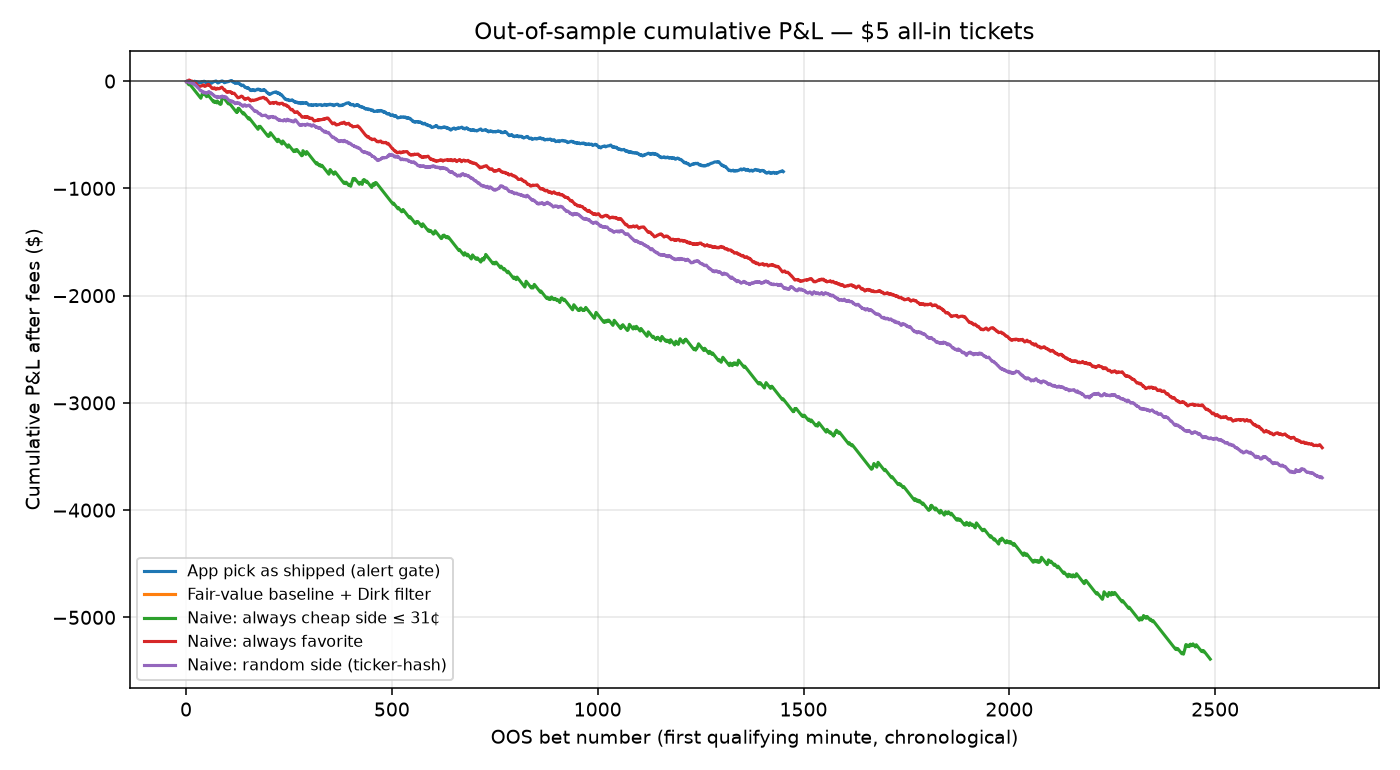
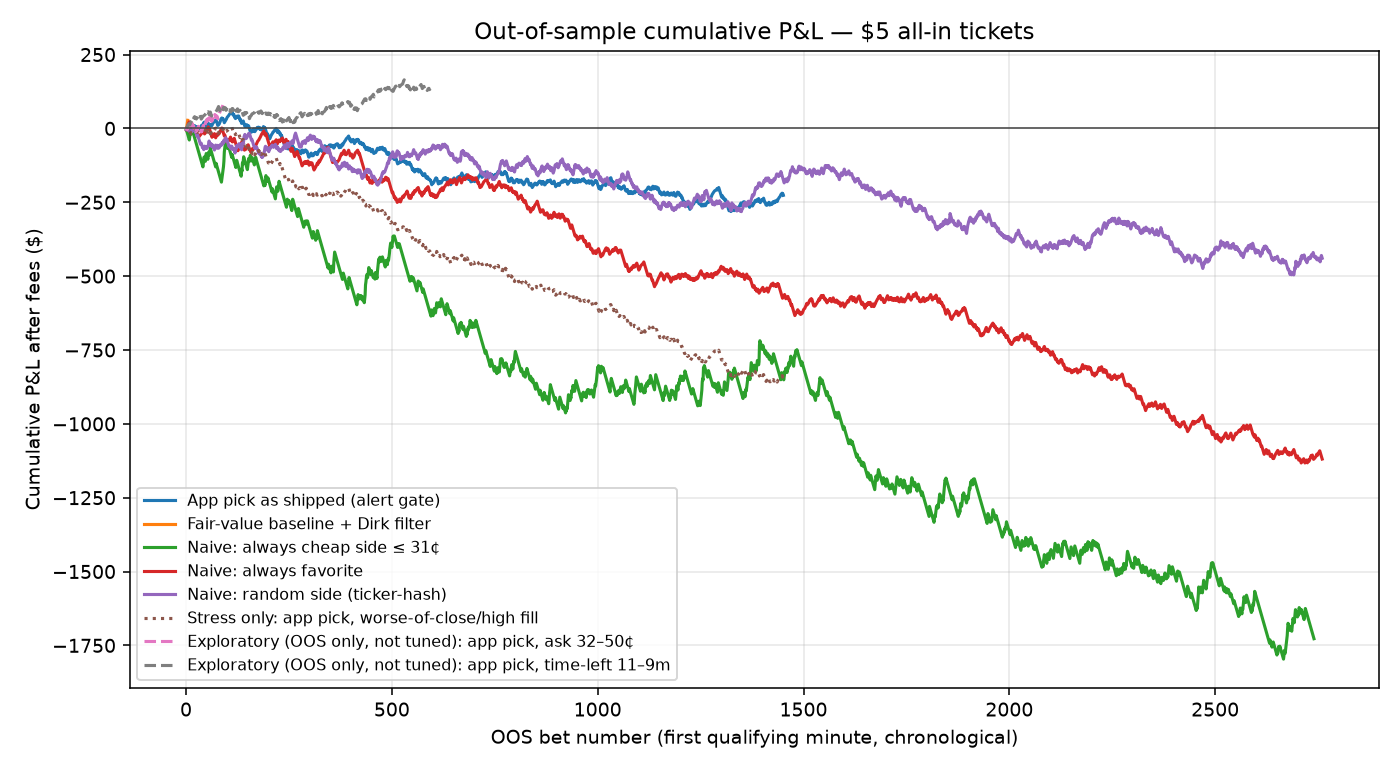
Regenerate v2 backtest report after close-ask rerun
Sanity and settlement gates pass. Primary OOS tables use candle-close
fills. Exploratory 32-50c / 11-9m rows are marked not-tuned.

diff --git a/tools/backtest/report.py b/tools/backtest/report.py
@@ -489,7 +489,9 @@ def write_report(result: dict, dest: Path, charts: tuple[Path, Path], meta: dict
     parts.append("")
     parts.append(
         "These two rows were added after v1 review. They are **not** in the walk-forward grid "
-        "and must not be read as a discovered edge."
+        "and must not be read as a discovered edge. "
+        "`app_32_50` waits for a later alert in the 32–50¢ band; that is why it has more bets "
+        "than the first-alert 32–50¢ slice in the app-pick breakdown."
     )
     parts.append("")
     parts.append("| Strategy | N | Wins | Win% | Avg ask | P&L | $/bet | ROI | Max DD | Bootstrap 95% CI $/bet (excludes 0?) |")
@@ -515,7 +517,7 @@ def write_report(result: dict, dest: Path, charts: tuple[Path, Path], meta: dict
     parts.append("")
     parts.append(
         "Dirk's cheap-side filter produced **0 OOS bets** on the shipped hero side "
-        "(that side is usually the 70–80¢ favorite). Tables below are the unfiltered "
+        "(that side is usually the favorite, ~66¢ close-ask). Tables below are the unfiltered "
         "app pick — the only app strategy with enough OOS trades to slice."
     )
     parts.append("")
@@ -625,7 +627,10 @@ def write_report(result: dict, dest: Path, charts: tuple[Path, Path], meta: dict
 
 def run_report(result: dict, repo: Path, artifact: Path, meta: dict | None) -> None:
     charts = write_charts(result, repo / "docs" / "backtest", artifact)
-    write_report(result, repo / "docs" / "backtest-2026-09-25.md", charts, meta)
+    dest = repo / "docs" / "backtest-2026-09-25.md"
+    write_report(result, dest, charts, meta)
+    artifact.mkdir(parents=True, exist_ok=True)
+    (artifact / "backtest-2026-09-25.md").write_text(dest.read_text())
 
 
 if __name__ == "__main__":

diff --git a/docs/backtest-2026-09-25.md b/docs/backtest-2026-09-25.md
@@ -2,6 +2,14 @@
 
 Honest historical replay of the **as-shipped 0.3.10 decision path** on settled `KXBTC15M` / `KXETH15M` / `KXSOL15M` windows. No look-ahead. One bet per market (first qualifying minute). $5 max all-in including Kalshi taker fees. Dirk's rule: only take a bet if profit-if-win ≥ $10 (asks around 31¢ or less).
 
+## What changed from v1 and why
+
+v1 P&L tables failed basic sanity. Random-side average ask was **74.6¢** (a coin-flip side at a 15m binary should average ~50–53¢). Always-favorite won 57% at a 79¢ ask and cheap-side won 15% at 25¢ — that contradicts the same report's market-mid calibration (Brier 0.159, reliability near the diagonal).
+
+**Cause:** the primary fill was `max(close, high)` on the YES ask and `max(1 − yes_bid.close, 1 − yes_bid.low)` on NO. A typical candle has `yes_ask.close = 0.47` and `yes_ask.high = 0.75`; `yes_bid.low` is often `0.000`. That rule overpays ~25¢ per contract and makes favorites look too expensive and longshots look too cheap relative to their win rates.
+
+**v2 fill:** primary taker fill is the ask at the decision minute's candle **close**: YES = `yes_ask.close`, NO = `1 − yes_bid.close` ([Kalshi candlesticks](https://docs.kalshi.com/api-reference/market/get-market-candlesticks)). `end_period_ts` is the inclusive period end, so minute *t* uses the candle ending at *t*, not *t+1*. Worse-of-close/high is kept only as a **stress-test row**. Random-side now requires **both** close asks to be usable so skip-bias cannot inflate the average. A sanity gate and a 20-market settlement audit must pass before any edge claim. Same cached 28-day pull; no re-fetch.
+
 ## Data span
 
 | | |
@@ -48,23 +56,128 @@ We also run the **fair-value baseline alone** (digital Φ(d2) / spot vs strike) 
 
 ## Fill and fee
 
-- Fill = conservative taker: **worse of candle close and high** on the side we buy. DOWN ask = `1 − yes_bid`; high DOWN ask = `1 − yes_bid.low`.
+- **Primary fill** = candle **close** ask at the decision minute. YES = `yes_ask.close`; NO / DOWN = `1 − yes_bid.close`.
+- **Stress-test fill** (one row only) = worse of close and high: YES `max(yes_ask.close, yes_ask.high)`; NO `max(1 − yes_bid.close, 1 − yes_bid.low)`.
 - Unusable 0.000 / 1.000 prints are dropped (`KalshiPrice` 0.1¢–99.9¢).
 - Fee: `ceil_cent(C·P + ceil_6dp(0.07·C·P·(1−P)))` for a non-direct member. `C` is the max integer with that debit ≤ $5.
 - P&L = `C × $1 − cost` if the side wins, else `−cost`.
 - First qualifying minute only. **“Best minute” is not allowed.**
 
+## Sanity (must pass before any conclusion)
+
+Overall: **PASS**. Minutes with both close asks usable: 103481.
+
+| Check | Value | Expect | Result |
+|---|---:|---|---|
+| yes_plus_no_median | 1.0100 | 0.99–1.12 (99–112¢) | PASS |
+| yes_plus_no_p95 | 1.0200 | ≤ 1.20 | PASS |
+| random_side_avg_ask_all_minutes | 0.5072 | 0.50–0.53 | PASS |
+| random_side_strategy_avg_ask | 0.5064 | 0.50–0.53 | PASS |
+| favorite_wr_tracks_price | 0.0117 | mean |win% − avg ask| ≤ 12pp on n≥30 buckets | PASS |
+| cheap_wr_tracks_price | 0.0137 | mean |win% − avg ask| ≤ 12pp on n≥30 buckets | PASS |
+| favorite_all_minutes_wr_tracks_price | 0.0047 | mean |win% − avg ask| ≤ 12pp on n≥30 buckets | PASS |
+| cheap_all_minutes_wr_tracks_price | 0.0091 | mean |win% − avg ask| ≤ 12pp on n≥30 buckets | PASS |
+
+| | Median | p95 | Mean |
+|---|---:|---:|---:|
+| YES ask + NO ask | 101.0¢ | 102.0¢ | 101.0¢ |
+| Random-side ask (all those minutes) | 50.7¢ | — | — |
+
+A calibrated book has YES ask + NO ask ≈ 100–105¢ (spread). A random side must then average ~50–53¢. Favorite / cheap-side win rate vs 10¢ price buckets should sit near the diagonal.
+
+#### Favorite (first-bet) win rate vs price paid
+
+| Bucket | N | Win% | Avg ask | Win% − ask |
+|---|---:|---:|---:|---:|
+| 50-60c | 4127 | 54.1% | 54.8¢ | -0.7pp |
+| 60-70c | 2867 | 62.2% | 63.8¢ | -1.6pp |
+| 70-80c | 865 | 75.3% | 73.4¢ | +1.9pp |
+| 80-90c | 103 | 80.6% | 82.5¢ | -1.9pp |
+| 90-100c | 7 | 71.4% | 90.0¢ | -18.6pp |
+
+#### Cheap side ≤31¢ (first-bet) win rate vs price paid
+
+| Bucket | N | Win% | Avg ask | Win% − ask |
+|---|---:|---:|---:|---:|
+| 0-10c | 55 | 12.7% | 7.4¢ | +5.4pp |
+| 10-20c | 1015 | 16.0% | 16.8¢ | -0.9pp |
+| 20-30c | 4994 | 24.0% | 25.7¢ | -1.7pp |
+| 30-40c | 1836 | 30.0% | 30.5¢ | -0.6pp |
+
+#### Favorite (every decision minute, both asks)
+
+| Bucket | N | Win% | Avg ask | Win% − ask |
+|---|---:|---:|---:|---:|
+| 50-60c | 20956 | 54.1% | 55.0¢ | -0.9pp |
+| 60-70c | 20928 | 63.9% | 64.4¢ | -0.5pp |
+| 70-80c | 17933 | 74.8% | 74.4¢ | +0.4pp |
+| 80-90c | 16545 | 84.7% | 84.5¢ | +0.2pp |
+| 90-100c | 27119 | 96.1% | 95.8¢ | +0.3pp |
+
+#### Cheaper close ask (every decision minute)
+
+| Bucket | N | Win% | Avg ask | Win% − ask |
+|---|---:|---:|---:|---:|
+| 0-10c | 25240 | 3.4% | 4.1¢ | -0.7pp |
+| 10-20c | 15525 | 14.1% | 15.3¢ | -1.1pp |
+| 20-30c | 16636 | 23.0% | 24.8¢ | -1.9pp |
+| 30-40c | 20246 | 34.2% | 34.6¢ | -0.5pp |
+| 40-50c | 23069 | 43.9% | 44.6¢ | -0.8pp |
+| 50-60c | 2765 | 50.2% | 50.1¢ | +0.1pp |
+
+## Settlement mapping (20 random markets)
+
+Sample agree 20/20 (missing spot 0). All markets with a Coinbase print: 7612/7969 (95.5%). **PASS** — `result=yes` means UP (Coinbase close > strike). Coinbase 1m close is a proxy for Kalshi's settlement index; a few mismatches are expected. result=yes must mean UP (close > strike).
+
+| Ticker | Strike | Result | Coinbase close | close_time | spot>strike | yes=UP |
+|---|---:|---|---:|---|---|---|
+| KXETH15M-26SEP202345-45 | 2664.65 | no | 2664.38 | 2026-09-21T03:45:00+00:00 | False | True |
+| KXSOL15M-26SEP150415-15 | 100.4343 | no | 100.29 | 2026-09-15T08:15:00+00:00 | False | True |
+| KXSOL15M-26SEP011200-00 | 102.1468 | no | 102.00 | 2026-09-01T16:00:00+00:00 | False | True |
+| KXSOL15M-26SEP081630-30 | 103.6113 | no | 103.49 | 2026-09-08T20:30:00+00:00 | False | True |
+| KXSOL15M-26SEP081645-45 | 103.4638 | no | 103.29 | 2026-09-08T20:45:00+00:00 | False | True |
+| KXBTC15M-26SEP240630-30 | 83214.38 | yes | 83234.25 | 2026-09-24T10:30:00+00:00 | True | True |
+| KXBTC15M-26SEP070130-30 | 79758.87 | yes | 79846.07 | 2026-09-07T05:30:00+00:00 | True | True |
+| KXSOL15M-26SEP010330-30 | 103.326 | no | 103.30 | 2026-09-01T07:30:00+00:00 | False | True |
+| KXSOL15M-26SEP060645-45 | 106.653 | no | 106.62 | 2026-09-06T10:45:00+00:00 | False | True |
+| KXBTC15M-26AUG300545-45 | 78024.02 | yes | 78030.34 | 2026-08-30T09:45:00+00:00 | True | True |
+| KXETH15M-26AUG291430-30 | 2448.45 | no | 2447.05 | 2026-08-29T18:30:00+00:00 | False | True |
+| KXETH15M-26SEP121600-00 | 2515.0 | yes | 2518.92 | 2026-09-12T20:00:00+00:00 | True | True |
+| KXBTC15M-26SEP212100-00 | 86306.04 | no | 85876.06 | 2026-09-22T01:00:00+00:00 | False | True |
+| KXSOL15M-26SEP071045-45 | 104.3328 | no | 104.20 | 2026-09-07T14:45:00+00:00 | False | True |
+| KXSOL15M-26AUG300630-30 | 104.6052 | yes | 104.82 | 2026-08-30T10:30:00+00:00 | True | True |
+| KXSOL15M-26SEP160300-00 | 96.9667 | yes | 97.30 | 2026-09-16T07:00:00+00:00 | True | True |
+| KXBTC15M-26SEP031215-15 | 81364.39 | no | 80955.90 | 2026-09-03T16:15:00+00:00 | False | True |
+| KXBTC15M-26SEP221245-45 | 86114.19 | yes | 86229.59 | 2026-09-22T16:45:00+00:00 | True | True |
+| KXBTC15M-26AUG300330-30 | 78260.62 | no | 78220.62 | 2026-08-30T07:30:00+00:00 | False | True |
+| KXETH15M-26SEP041915-15 | 2451.64 | no | 2450.92 | 2026-09-04T23:15:00+00:00 | False | True |
+
 ## Out-of-sample results (what counts)
 
 | Strategy | N | Wins | Win% | Avg ask | P&L | $/bet | ROI | Max DD | Bootstrap 95% CI $/bet (excludes 0?) |
 |---|---:|---:|---:|---:|---:|---:|---:|---:|---|
-| App pick as shipped (alert gate) | 1451 | 949 | 65.4% | 74.9¢ | $-843.72 | $-0.581 | -12.4% | $-865.18 | [-0.745, -0.417] yes (below 0) |
+| App pick as shipped (alert gate) | 1451 | 949 | 65.4% | 65.8¢ | $-226.50 | $-0.156 | -3.3% | $-340.92 | [-0.332, +0.021] no |
 | App pick + Dirk filter (ask ≲ 31¢, profit ≥ $10) | 0 | 0 | — | — | $0.00 | — | — | $0.00 | — |
-| Fair-value baseline + Dirk filter | 1 | 1 | 100.0% | 28.0¢ | $+12.00 | $+12.000 | 240.0% | $0.00 | [+12.000, +12.000] yes (above 0) |
-| Naive: always cheap side ≤ 31¢ | 2488 | 382 | 15.4% | 25.3¢ | $-5389.25 | $-2.166 | -44.4% | $-5389.25 | [-2.422, -1.908] yes (below 0) |
-| Naive: always favorite | 2760 | 1574 | 57.0% | 79.0¢ | $-3418.17 | $-1.238 | -25.7% | $-3428.39 | [-1.364, -1.115] yes (below 0) |
-| Naive: random side (ticker-hash) | 2760 | 1388 | 50.3% | 74.6¢ | $-3698.37 | $-1.340 | -27.7% | $-3698.37 | [-1.489, -1.195] yes (below 0) |
+| Fair-value baseline + Dirk filter | 4 | 3 | 75.0% | 29.3¢ | $+27.39 | $+6.848 | 139.7% | $-5.00 | [-1.183, +11.530] no |
+| Naive: always cheap side ≤ 31¢ | 2740 | 651 | 23.8% | 25.5¢ | $-1727.42 | $-0.630 | -12.9% | $-1797.82 | [-0.919, -0.336] yes (below 0) |
+| Naive: always favorite | 2760 | 1574 | 57.0% | 60.5¢ | $-1119.21 | $-0.406 | -8.7% | $-1154.77 | [-0.546, -0.262] yes (below 0) |
+| Naive: random side (ticker-hash) | 2760 | 1388 | 50.3% | 50.6¢ | $-439.31 | $-0.159 | -3.4% | $-499.74 | [-0.340, +0.021] no |
 | IS-tuned rule (reported OOS only) | 0 | 0 | — | — | $0.00 | — | — | $0.00 | — |
+
+### Stress-test fill (worse of close/high) — not the primary
+
+| Strategy | N | Wins | Win% | Avg ask | P&L | $/bet | ROI | Max DD | Bootstrap 95% CI $/bet (excludes 0?) |
+|---|---:|---:|---:|---:|---:|---:|---:|---:|---|
+| Stress only: app pick, worse-of-close/high fill | 1451 | 949 | 65.4% | 74.9¢ | $-843.72 | $-0.581 | -12.4% | $-865.18 | [-0.745, -0.417] yes (below 0) |
+
+### Exploratory slices (out of sample only, **not tuned**)
+
+These two rows were added after v1 review. They are **not** in the walk-forward grid and must not be read as a discovered edge. `app_32_50` waits for a later alert in the 32–50¢ band; that is why it has more bets than the first-alert 32–50¢ slice in the app-pick breakdown.
+
+| Strategy | N | Wins | Win% | Avg ask | P&L | $/bet | ROI | Max DD | Bootstrap 95% CI $/bet (excludes 0?) |
+|---|---:|---:|---:|---:|---:|---:|---:|---:|---|
+| Exploratory (OOS only, not tuned): app pick, ask 32–50¢ | 92 | 56 | 60.9% | 48.8¢ | $+89.46 | $+0.972 | 20.8% | $-29.64 | [+0.025, +1.890] yes (above 0) |
+| Exploratory (OOS only, not tuned): app pick, time-left 11–9m | 593 | 434 | 73.2% | 68.6¢ | $+134.18 | $+0.226 | 4.9% | $-54.77 | [-0.025, +0.475] no |
 
 In-sample tables are in the appendix — they were used only to tune the optional rule, never to pick the conclusion.
 
@@ -82,41 +195,41 @@ OOS application of that exact rule is the `IS-tuned rule` row above.
 
 ## Breakdowns (OOS, app pick as shipped)
 
-Dirk's cheap-side filter produced **0 OOS bets** on the shipped hero side (that side is usually the 70–80¢ favorite). Tables below are the unfiltered app pick — the only app strategy with enough OOS trades to slice.
+Dirk's cheap-side filter produced **0 OOS bets** on the shipped hero side (that side is usually the favorite, ~66¢ close-ask). Tables below are the unfiltered app pick — the only app strategy with enough OOS trades to slice.
 
 #### By coin
 
 | Bucket | N | Win% | Avg ask | P&L | $/bet | ROI | CI95 $/bet |
 |---|---:|---:|---:|---:|---:|---:|---|
-| BTC | 706 | 63.0% | 73.6¢ | $-440.05 | $-0.623 | -13.2% | [-0.868, -0.379] |
-| ETH | 446 | 64.8% | 74.8¢ | $-282.82 | $-0.634 | -13.5% | [-0.918, -0.347] |
-| SOL | 299 | 71.9% | 78.3¢ | $-120.85 | $-0.404 | -8.6% | [-0.720, -0.088] |
+| BTC | 706 | 63.0% | 63.5¢ | $-124.95 | $-0.177 | -3.8% | [-0.439, +0.084] |
+| ETH | 446 | 64.8% | 65.9¢ | $-90.57 | $-0.203 | -4.4% | [-0.516, +0.111] |
+| SOL | 299 | 71.9% | 71.2¢ | $-10.98 | $-0.037 | -0.8% | [-0.393, +0.315] |
 
 #### By time-left
 
 | Bucket | N | Win% | Avg ask | P&L | $/bet | ROI | CI95 $/bet |
 |---|---:|---:|---:|---:|---:|---:|---|
-| 11-9m | 187 | 69.0% | 70.9¢ | $-33.36 | $-0.178 | -3.9% | [-0.614, +0.261] |
-| 14-12m | 995 | 61.7% | 73.6¢ | $-705.32 | $-0.709 | -15.0% | [-0.917, -0.505] |
-| 2-1m | 39 | 94.9% | 94.4¢ | $+3.55 | $+0.091 | 1.9% | [-0.378, +0.516] |
-| 5-3m | 106 | 77.4% | 86.4¢ | $-51.97 | $-0.490 | -10.4% | [-0.957, -0.054] |
-| 8-6m | 124 | 70.2% | 75.8¢ | $-56.62 | $-0.457 | -9.8% | [-0.984, +0.037] |
+| 11-9m | 187 | 69.0% | 65.2¢ | $+28.42 | $+0.152 | 3.3% | [-0.328, +0.631] |
+| 14-12m | 995 | 61.7% | 62.7¢ | $-206.56 | $-0.208 | -4.5% | [-0.430, +0.018] |
+| 2-1m | 39 | 94.9% | 92.9¢ | $+7.86 | $+0.202 | 4.2% | [-0.302, +0.681] |
+| 5-3m | 106 | 77.4% | 81.1¢ | $-34.17 | $-0.322 | -6.8% | [-0.826, +0.164] |
+| 8-6m | 124 | 70.2% | 70.5¢ | $-22.05 | $-0.178 | -3.8% | [-0.744, +0.367] |
 
 #### By fill ask
 
 | Bucket | N | Win% | Avg ask | P&L | $/bet | ROI | CI95 $/bet |
 |---|---:|---:|---:|---:|---:|---:|---|
-| 32-50c | 12 | 83.3% | 48.8¢ | $+36.90 | $+3.075 | 65.8% | [+0.753, +4.713] |
-| 51-99c | 1439 | 65.3% | 75.1¢ | $-880.62 | $-0.612 | -13.0% | [-0.773, -0.449] |
+| 32-50c | 67 | 55.2% | 48.7¢ | $+28.69 | $+0.428 | 9.2% | [-0.688, +1.533] |
+| 51-99c | 1384 | 65.9% | 66.7¢ | $-255.19 | $-0.184 | -4.0% | [-0.362, -0.008] |
 
 #### By |spot − strike|
 
 | Bucket | N | Win% | Avg ask | P&L | $/bet | ROI | CI95 $/bet |
 |---|---:|---:|---:|---:|---:|---:|---|
-| 20-50bp | 126 | 84.1% | 90.1¢ | $-46.22 | $-0.367 | -7.7% | [-0.721, -0.040] |
-| 5-20bp | 693 | 71.7% | 78.2¢ | $-261.88 | $-0.378 | -8.0% | [-0.594, -0.171] |
-| <5bp | 623 | 54.1% | 68.0¢ | $-538.22 | $-0.864 | -18.4% | [-1.143, -0.582] |
-| >50bp | 9 | 100.0% | 94.1¢ | $+2.60 | $+0.289 | 6.0% | [+0.132, +0.503] |
+| 20-50bp | 126 | 84.1% | 84.9¢ | $-13.38 | $-0.106 | -2.3% | [-0.478, +0.234] |
+| 5-20bp | 693 | 71.7% | 69.9¢ | $+8.52 | $+0.012 | 0.3% | [-0.220, +0.232] |
+| <5bp | 623 | 54.1% | 57.0¢ | $-224.65 | $-0.361 | -7.7% | [-0.672, -0.052] |
+| >50bp | 9 | 100.0% | 93.2¢ | $+3.01 | $+0.334 | 7.0% | [+0.180, +0.539] |
 
 ## Calibration (all decision minutes, not just bets)
 
@@ -149,7 +262,7 @@ Lower Brier is better. A well-calibrated 15m market mid is usually ~0.15–0.25.
 
 ## Conclusion
 
-**No. No strategy has a positive out-of-sample per-bet P&L whose bootstrap 95% CI excludes zero.** Kalshi 15-minute crypto mids are hard to beat after taker fees and a conservative (worse of close/high) fill. The MLP / blend edge vs mid looks weak or harmful once you pay the ask; the digital-fair / spot-vs-strike baseline is the least-bad component and still does not clear fees in OOS. Book-flow features could not be reconstructed (see limitations) — they may or may not help live, but we will not claim an edge we did not measure. Blended fair Brier 0.1610 is *worse* than the market mid Brier 0.1592 on the same decision minutes. The 8-feature fallback MLP Brier 0.1645 loses to the market mid (0.1592); that channel is pulling the blend the wrong way. Dirk's ≤31¢ / ≥$10-profit filter almost never meets the shipped hero side (2 IS bets, both losses; 0 OOS). Cheap-side hunting without a real edge lost ~$2.17/bet OOS. Do not use the current one-pick-per-window recommendation to chase a $50 profit target — the OOS app pick lost $0.58/bet after fees (CI entirely below zero).
+**No claimed strategy has a positive OOS edge whose 95% CI excludes zero.** One *exploratory* (not tuned) slice does: Exploratory (OOS only, not tuned): app pick, ask 32–50¢ (n=92, P&L $+89.46, $/bet CI [+0.025, +1.890]). Treat that as a hypothesis, not a result.
 
 ## Scorecard bug (0/5 · Brier 0.003)
 
@@ -197,13 +310,14 @@ Replay of first-alert minutes in this backtest (shadow, not the phone log): n=40
 
 | Strategy | N | Wins | Win% | Avg ask | P&L | $/bet | ROI | Max DD | CI95 $/bet |
 |---|---:|---:|---:|---:|---:|---:|---:|---:|---|
-| App pick as shipped (alert gate) | 2550 | 1705 | 66.9% | 73.9¢ | $-1191.07 | $-0.467 | -9.9% | $-1202.90 | [-0.589, -0.347] yes (below 0) |
-| App pick + Dirk filter (ask ≲ 31¢, profit ≥ $10) | 2 | 0 | 0.0% | 28.5¢ | $-9.88 | $-4.940 | -100.0% | $-9.88 | [-5.000, -4.880] yes (below 0) |
-| Fair-value baseline + Dirk filter | 4 | 1 | 25.0% | 29.8¢ | $-4.64 | $-1.160 | -23.6% | $-9.88 | [-4.970, +6.370] no |
-| Naive: always cheap side ≤ 31¢ | 4661 | 768 | 16.5% | 25.5¢ | $-8919.39 | $-1.914 | -39.2% | $-8919.39 | [-2.113, -1.716] yes (below 0) |
-| Naive: always favorite | 5209 | 3179 | 61.0% | 79.1¢ | $-5048.74 | $-0.969 | -20.2% | $-5070.86 | [-1.059, -0.879] yes (below 0) |
-| Naive: random side (ticker-hash) | 5209 | 2620 | 50.3% | 73.6¢ | $-6793.24 | $-1.304 | -27.0% | $-6793.24 | [-1.414, -1.198] yes (below 0) |
+| App pick as shipped (alert gate) | 2550 | 1705 | 66.9% | 65.7¢ | $-36.95 | $-0.014 | -0.3% | $-183.26 | [-0.150, +0.118] no |
+| App pick + Dirk filter (ask ≲ 31¢, profit ≥ $10) | 11 | 6 | 54.5% | 27.8¢ | $+43.44 | $+3.949 | 81.1% | $-19.43 | [-0.782, +8.685] no |
+| Fair-value baseline + Dirk filter | 29 | 12 | 41.4% | 25.8¢ | $+71.32 | $+2.459 | 50.3% | $-33.92 | [-0.753, +5.842] no |
+| Naive: always cheap side ≤ 31¢ | 5160 | 1265 | 24.5% | 25.6¢ | $-1979.76 | $-0.384 | -7.9% | $-2072.73 | [-0.610, -0.160] yes (below 0) |
+| Naive: always favorite | 5209 | 3179 | 61.0% | 60.4¢ | $-404.25 | $-0.078 | -1.7% | $-691.34 | [-0.179, +0.025] no |
+| Naive: random side (ticker-hash) | 5209 | 2620 | 50.3% | 50.7¢ | $-1193.22 | $-0.229 | -4.8% | $-1298.13 | [-0.358, -0.100] yes (below 0) |
 | IS-tuned rule (reported OOS only) | 0 | 0 | — | — | $0.00 | — | — | $0.00 | — |
+| Stress only: app pick, worse-of-close/high fill | 2550 | 1705 | 66.9% | 73.9¢ | $-1191.07 | $-0.467 | -9.9% | $-1202.90 | [-0.589, -0.347] yes (below 0) |
 
 ## Repro
 
